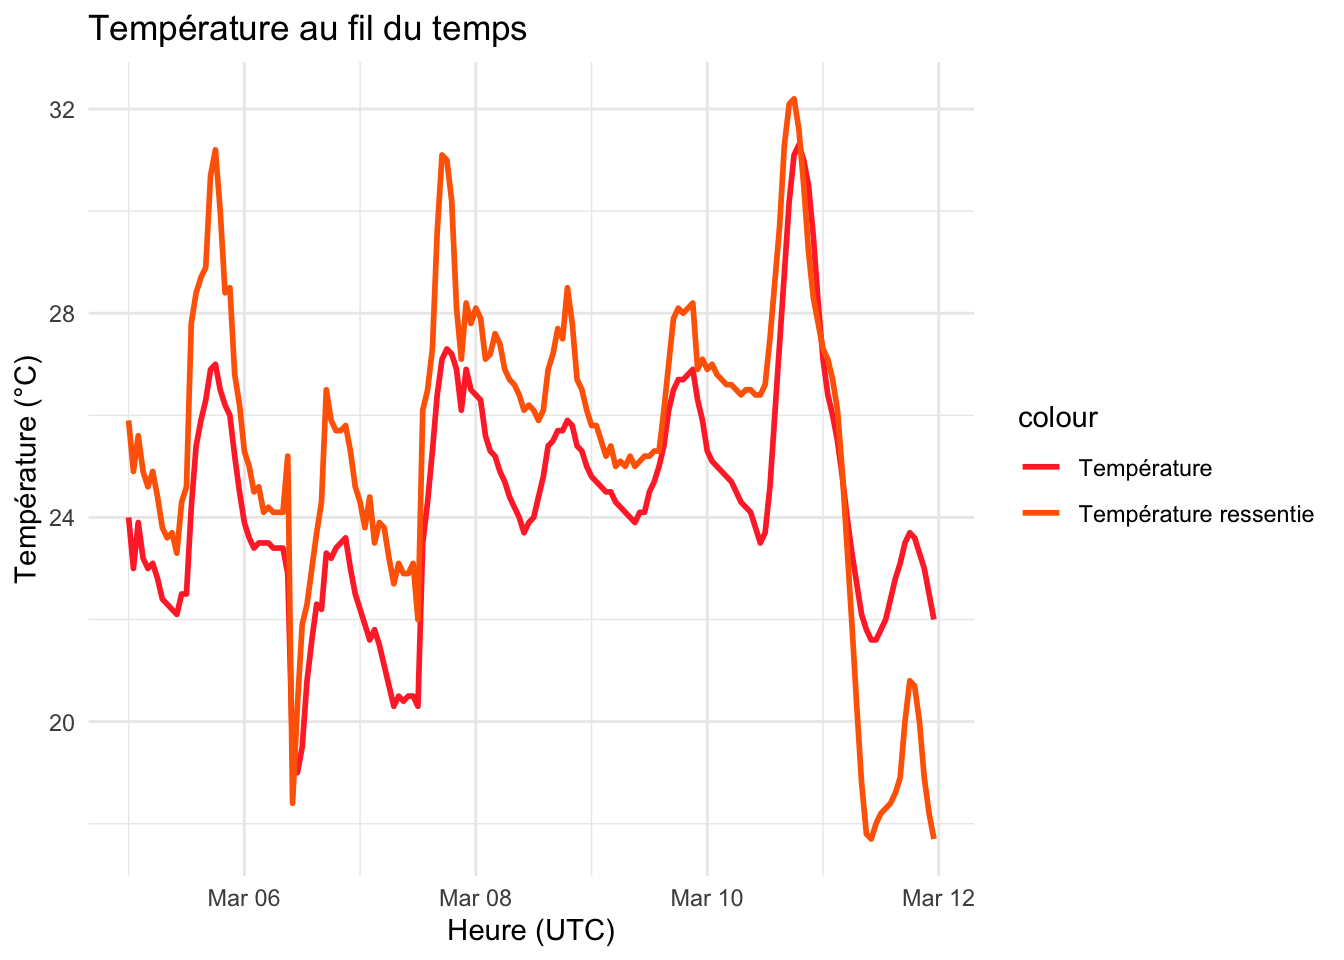
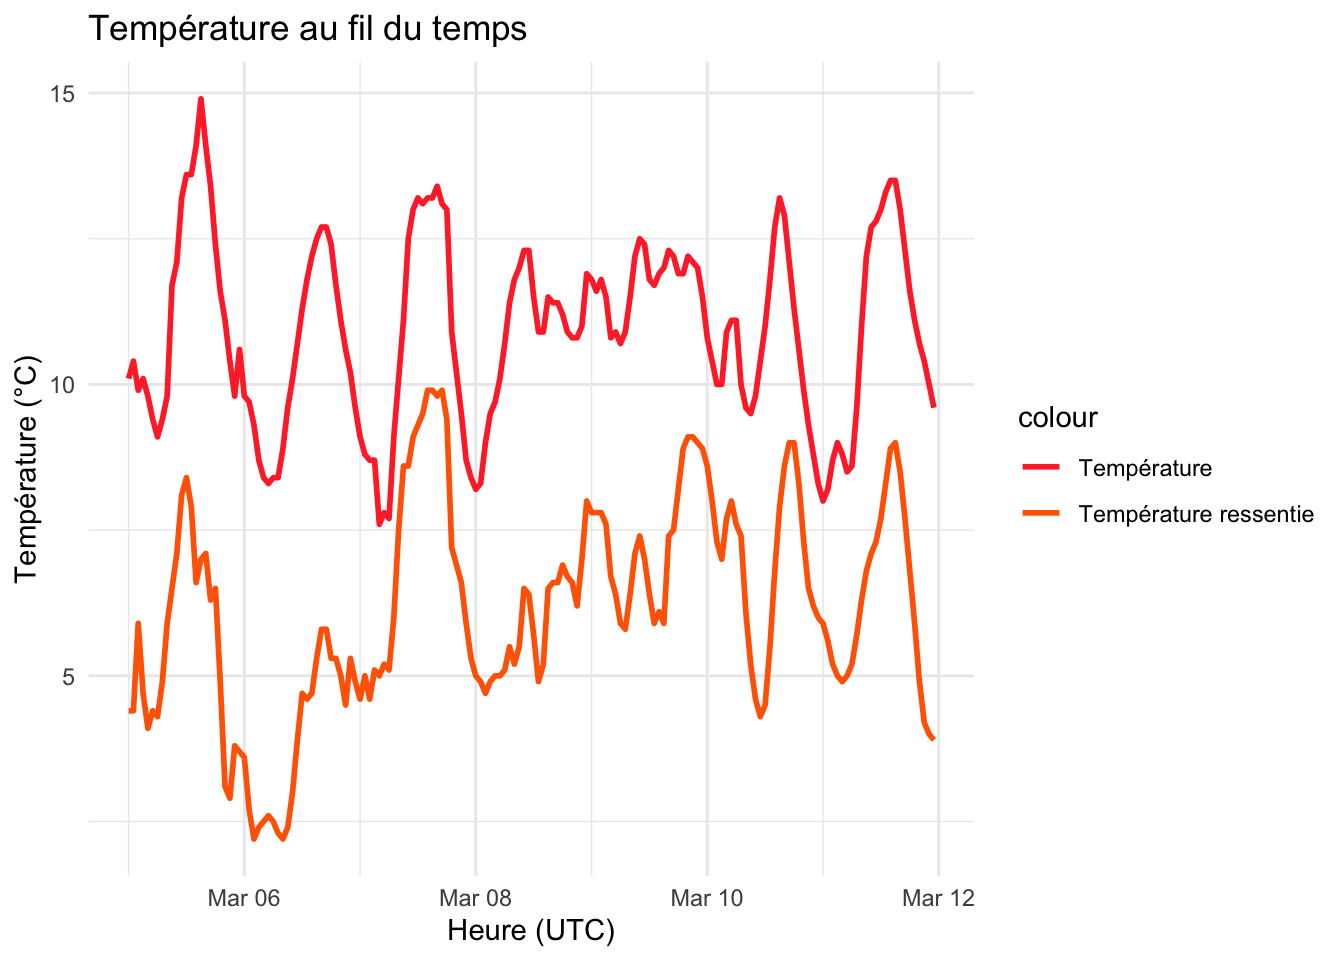
Ajout de modification

diff --git a/_site/posts/post-with-code/index.html b/_site/posts/post-with-code/index.html
@@ -9,7 +9,7 @@
 <meta name="author" content="Harlow Malloc">
 <meta name="dcterms.date" content="2024-03-05">
 
-<title>My_blog - Post With Code</title>
+<title>My_blog - Visualisation météorologique</title>
 <style>
 code{white-space: pre-wrap;}
 span.smallcaps{font-variant: small-caps;}
@@ -142,7 +142,7 @@ pre > code.sourceCode > span > a:first-child::before { text-decoration: underlin
 <header id="title-block-header" class="quarto-title-block default page-columns page-full">
   <div class="quarto-title-banner page-columns page-full">
     <div class="quarto-title column-body">
-      <h1 class="title">Post With Code</h1>
+      <h1 class="title">Visualisation météorologique</h1>
                                 <div class="quarto-categories">
                 <div class="quarto-category">news</div>
                 <div class="quarto-category">code</div>
@@ -219,7 +219,7 @@ when loading 'olympicsWeather'</code></pre>
 <pre><code>Passing 1 address to the ArcGIS single address geocoder</code></pre>
 </div>
 <div class="cell-output cell-output-stderr">
-<pre><code>Query completed in: 0.8 seconds</code></pre>
+<pre><code>Query completed in: 0.9 seconds</code></pre>
 </div>
 <div class="sourceCode cell-code" id="cb9"><pre class="sourceCode r code-with-copy"><code class="sourceCode r"><span id="cb9-1"><a href="#cb9-1" aria-hidden="true" tabindex="-1"></a><span class="fu">Graphique_pluie</span>(météo)</span></code><button title="Copy to Clipboard" class="code-copy-button"><i class="bi"></i></button></pre></div>
 <div class="cell-output cell-output-stderr">
@@ -241,7 +241,7 @@ Adding another scale for y, which will replace the existing scale.</code></pre>
 <pre><code>Passing 1 address to the ArcGIS single address geocoder</code></pre>
 </div>
 <div class="cell-output cell-output-stderr">
-<pre><code>Query completed in: 0.2 seconds</code></pre>
+<pre><code>Query completed in: 0.3 seconds</code></pre>
 </div>
 <div class="sourceCode cell-code" id="cb15"><pre class="sourceCode r code-with-copy"><code class="sourceCode r"><span id="cb15-1"><a href="#cb15-1" aria-hidden="true" tabindex="-1"></a><span class="fu">Graphique_pluie</span>(météo_tahiti)</span></code><button title="Copy to Clipboard" class="code-copy-button"><i class="bi"></i></button></pre></div>
 <div class="cell-output cell-output-stderr">
@@ -258,14 +258,8 @@ Adding another scale for y, which will replace the existing scale.</code></pre>
 </div>
 <p>Enfin, nous pouvons visualiser les données météorologique pour les points GPS suivant : . 43.276703, 5.334791.</p>
 <div class="cell">
-<div class="sourceCode cell-code" id="cb18"><pre class="sourceCode r code-with-copy"><code class="sourceCode r"><span id="cb18-1"><a href="#cb18-1" aria-hidden="true" tabindex="-1"></a>météo_gps <span class="ot">&lt;-</span> <span class="fu">get_forecast</span>(<span class="st">"gps"</span>)</span></code><button title="Copy to Clipboard" class="code-copy-button"><i class="bi"></i></button></pre></div>
-<div class="cell-output cell-output-stderr">
-<pre><code>Passing 1 address to the ArcGIS single address geocoder</code></pre>
-</div>
-<div class="cell-output cell-output-stderr">
-<pre><code>Query completed in: 0.2 seconds</code></pre>
-</div>
-<div class="sourceCode cell-code" id="cb21"><pre class="sourceCode r code-with-copy"><code class="sourceCode r"><span id="cb21-1"><a href="#cb21-1" aria-hidden="true" tabindex="-1"></a><span class="fu">Graphique_pluie</span>(météo_tahiti)</span></code><button title="Copy to Clipboard" class="code-copy-button"><i class="bi"></i></button></pre></div>
+<div class="sourceCode cell-code" id="cb18"><pre class="sourceCode r code-with-copy"><code class="sourceCode r"><span id="cb18-1"><a href="#cb18-1" aria-hidden="true" tabindex="-1"></a>météo_gps <span class="ot">&lt;-</span> <span class="fu">get_forecast</span>(<span class="fu">c</span>(<span class="fl">43.276703</span>,<span class="fl">5.334791</span>))</span>
+<span id="cb18-2"><a href="#cb18-2" aria-hidden="true" tabindex="-1"></a><span class="fu">Graphique_pluie</span>(météo_gps)</span></code><button title="Copy to Clipboard" class="code-copy-button"><i class="bi"></i></button></pre></div>
 <div class="cell-output cell-output-stderr">
 <pre><code>Scale for y is already present.
 Adding another scale for y, which will replace the existing scale.</code></pre>
@@ -273,7 +267,7 @@ Adding another scale for y, which will replace the existing scale.</code></pre>
 <div class="cell-output-display">
 <p><img src="index_files/figure-html/unnamed-chunk-5-1.png" class="img-fluid" width="672"></p>
 </div>
-<div class="sourceCode cell-code" id="cb23"><pre class="sourceCode r code-with-copy"><code class="sourceCode r"><span id="cb23-1"><a href="#cb23-1" aria-hidden="true" tabindex="-1"></a><span class="fu">Graphique_temperature</span>(météo_tahiti)</span></code><button title="Copy to Clipboard" class="code-copy-button"><i class="bi"></i></button></pre></div>
+<div class="sourceCode cell-code" id="cb20"><pre class="sourceCode r code-with-copy"><code class="sourceCode r"><span id="cb20-1"><a href="#cb20-1" aria-hidden="true" tabindex="-1"></a><span class="fu">Graphique_temperature</span>(météo_gps)</span></code><button title="Copy to Clipboard" class="code-copy-button"><i class="bi"></i></button></pre></div>
 <div class="cell-output-display">
 <p><img src="index_files/figure-html/unnamed-chunk-5-2.png" class="img-fluid" width="672"></p>
 </div>

diff --git a/_site/index.html b/_site/index.html
@@ -201,14 +201,14 @@ ul.task-list li input[type="checkbox"] {
 
 <div class="quarto-listing quarto-listing-container-default" id="listing-listing">
 <div class="list quarto-listing-default">
-<div class="quarto-post image-right" data-index="0" data-categories="news,code,analysis" data-listing-date-sort="1709593200000" data-listing-file-modified-sort="1709654912515" data-listing-date-modified-sort="NaN" data-listing-reading-time-sort="1">
+<div class="quarto-post image-right" data-index="0" data-categories="news,code,analysis" data-listing-date-sort="1709593200000" data-listing-file-modified-sort="1709670537314" data-listing-date-modified-sort="NaN" data-listing-reading-time-sort="1">
 <div class="thumbnail">
 <p><a href="./posts/post-with-code/index.html"> <img src="./posts/post-with-code/image.jpg" class="thumbnail-image"> </a></p>
 </div>
 <div class="body">
 <a href="./posts/post-with-code/index.html">
 <h3 class="no-anchor listing-title">
-Post With Code
+Visualisation météorologique
 </h3>
 <div class="listing-subtitle">
 
